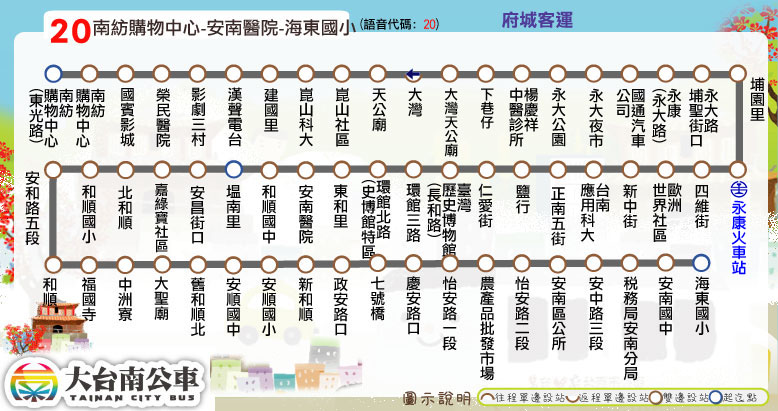
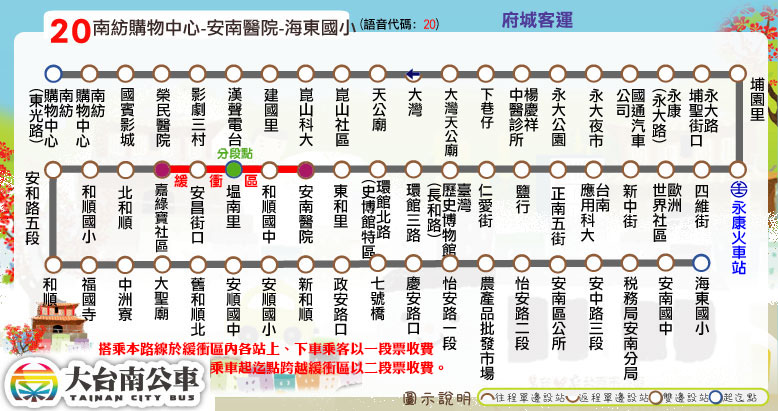
1路及20路公車收費分段點及緩衝區變更

Changed region(s): [[0.1234, 0.8175, 0.5861, 0.9343], [0.1851, 0.3504, 0.401, 0.4672]]

diff --git a/urban/20.html b/urban/20.html
@@ -18,8 +18,8 @@
 <script type="text/javascript">
 	block_header();
 	block_route_map(null);
-	block_route_info(route_interval,'府城客運','尖30離60','一段票','http://2384.tainan.gov.tw:8080/AGPSRemoteQuery3/ajaxBus.jsp?pathId=10020&locale=zh_TW');
-	block_fare(1, null);
+	block_route_info(route_interval,'府城客運','尖30離60','兩段票 分段點：塭南里<br />緩衝區：安南醫院 ─ 嘉綠寶社區','http://2384.tainan.gov.tw:8080/AGPSRemoteQuery3/ajaxBus.jsp?pathId=10020&locale=zh_TW');
+	block_fare(2, null,'分段點：塭南里<br /><font color="#CC2102"><u>緩衝區：安南醫院－嘉綠寶社區</u></font><br /><font color="green">乘車起迄點跨越緩衝區以二段票收費</font>');
 	block_time_schedule('南紡購物中心','海東國小',W_message);
 	block_transfer(transfer_kun_shan_university + transfer_yongkang_railway_station + transfer_yanhang + transfer_taiwan_history_museum + transfer_annan_hospital + transfer_haidong_elementary_school);
 	block_copyright();

diff --git a/urban/1.html b/urban/1.html
@@ -21,8 +21,8 @@
 <script type="text/javascript">
 	block_header();
 	block_route_map(null);
-	block_route_info(route_interval,'府城客運','尖10~15離30','二段票','http://2384.tainan.gov.tw:8080/AGPSRemoteQuery3/ajaxBus.jsp?pathId=10160&locale=zh_TW');
-	block_fare(2, null,'去程(往茄萣) 分段點過「威武廟」<br />回程(往臺南) 分段點過「風櫃門」');
+	block_route_info(route_interval,'府城客運','尖10~15離30','兩段票 分段點：南萣橋南<br />緩衝區：同安里 ─ 白砂崙廟口','http://2384.tainan.gov.tw:8080/AGPSRemoteQuery3/ajaxBus.jsp?pathId=10160&locale=zh_TW');
+	block_fare(2, null,'南萣橋南<br /><font color="#CC2102"><u>緩衝區：同安里－白砂崙廟口</u></font><br /><font color="green">乘車起迄點跨越緩衝區以二段票收費</font>');
 	block_multiple_time_schedule( [['平日班表','normal'],['假日班表','holiday']],'');
 	block_transfer(transfer_tainan_railway_station);
 	block_copyright();

diff --git a/urban/21.html b/urban/21.html
@@ -20,7 +20,7 @@
 	block_route_map(null);
 	block_route_info(route_interval,'府城客運','尖30離40','一段票','http://2384.tainan.gov.tw:8080/AGPSRemoteQuery3/ajaxBus.jsp?pathId=10021&locale=zh_TW');
 	block_fare(1, null);
-	block_time_schedule('臺南火車站','永康休閒娛樂中心','');
+	block_time_schedule('臺南火車站','永康休閒育樂中心','');
 	block_transfer(transfer_tainan_railway_station + transfer_yanhang);
 	block_copyright();
 </script>
